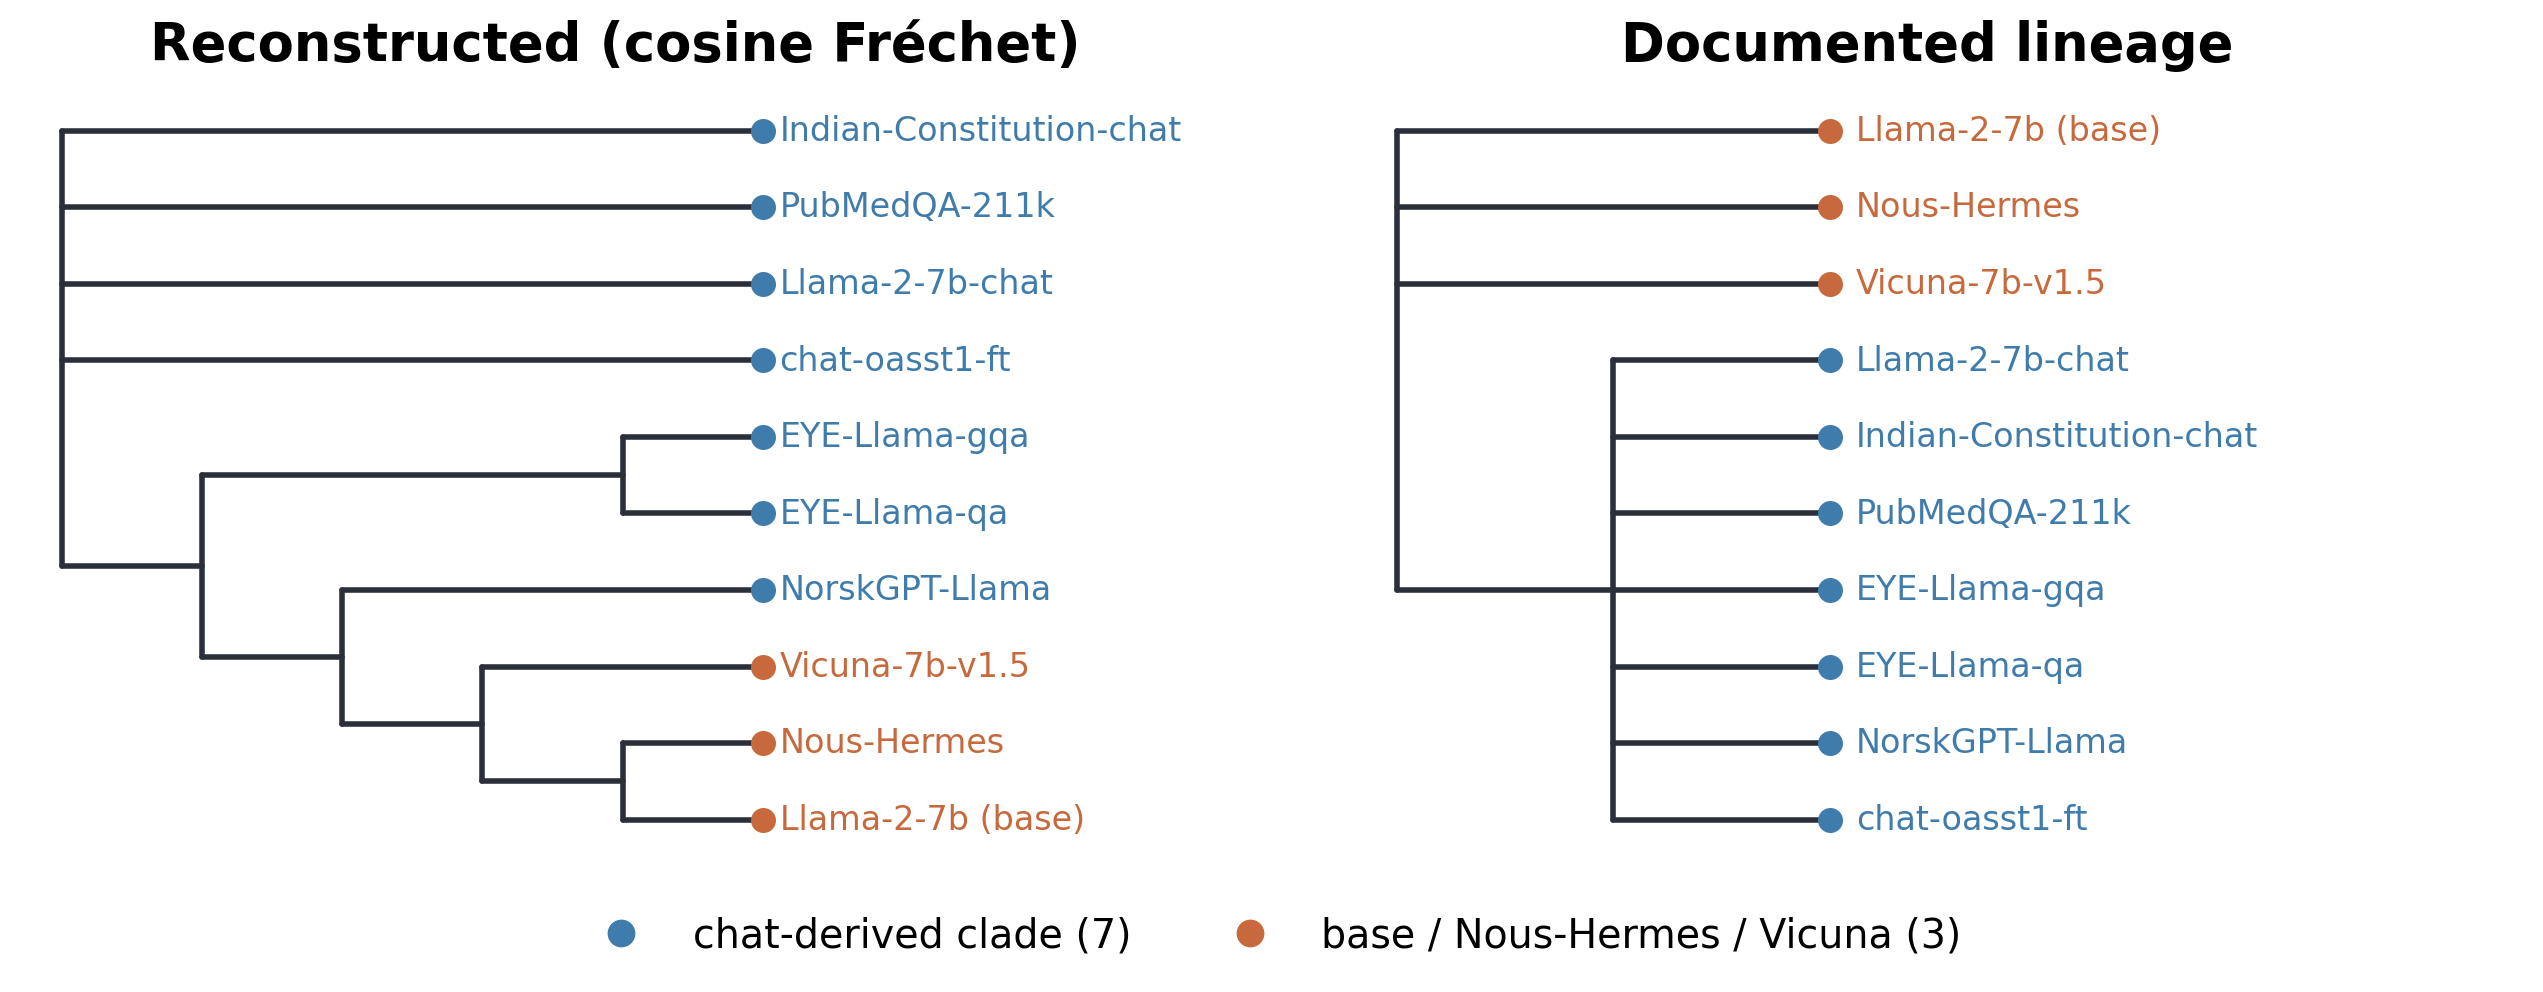
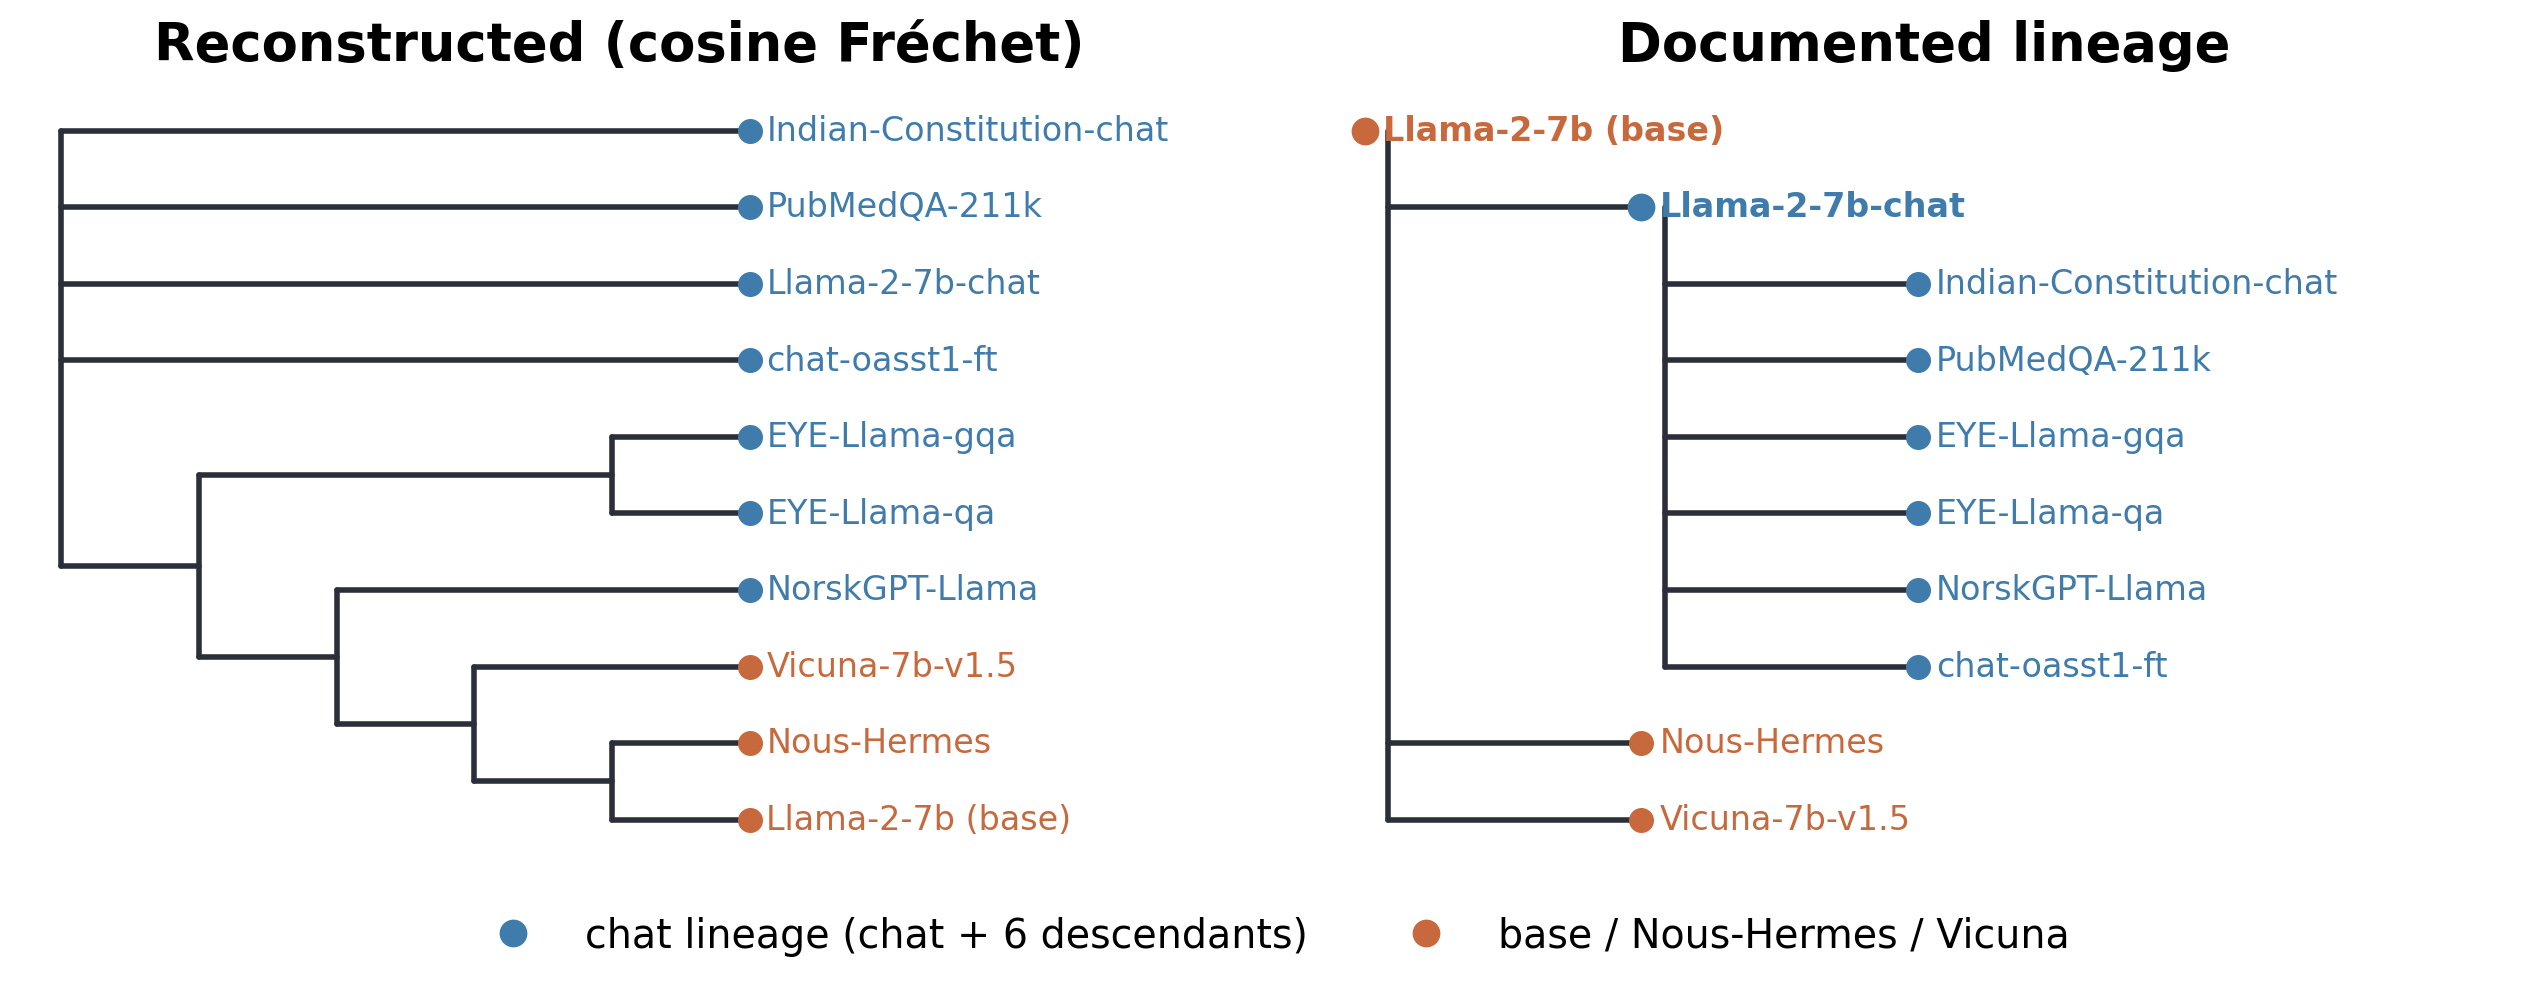
Fig 5: documented panel as rooted lineage (file-tree); consistent per-model colors

diff --git a/paper_v3.tex b/paper_v3.tex
@@ -625,13 +625,17 @@ similarly.)
   \begin{center}
     \includegraphics[width=\linewidth]{\figpath/hf_llama2_trees_vs_truth.png}
   \end{center}
-  \caption{\textbf{Recovery on an organic HuggingFace model family.} Reconstructed phylogeny (left)
-    from the cosine Fr\'echet mean of cumulative weight distances over the tensors common to all ten
-    checkpoints, against the documented lineage (right), for a real Llama-2-7B family. Leaves are
-    coloured by side of the one informative split: the seven chat-derived descendants (blue) versus
-    the base model, Nous-Hermes, and Vicuna (orange). That split is recovered exactly; the remaining
-    edges are binary-forced resolutions of the polytomous truth (\S\ref{sec:framework:phylo}), not
-    lineage errors.}
+  \caption{\textbf{Recovery on an organic HuggingFace model family.} Reconstructed phylogeny (left),
+    the cosine Fr\'echet mean of cumulative weight distances over the tensors common to all ten
+    checkpoints, against the documented lineage (right), for a real Llama-2-7B family. The documented
+    lineage is drawn as the recorded rooted tree: the base \texttt{Llama-2-7b} model has three
+    children (\texttt{Llama-2-7b-chat}, Nous-Hermes, and Vicuna), and the chat model has six further
+    descendants. Nodes are coloured by side of the one informative split: \texttt{Llama-2-7b-chat}
+    and its six descendants (blue, seven models) versus the base model, Nous-Hermes, and Vicuna
+    (orange). The reconstruction places all ten models as leaves (our framework treats models as
+    leaves) but recovers that split exactly --- the blue clade is monophyletic; the remaining
+    reconstructed edges are binary-forced resolutions of the polytomous truth
+    (\S\ref{sec:framework:phylo}), not lineage errors.}
   \label{fig:real-trees}
 \end{figure}
 
